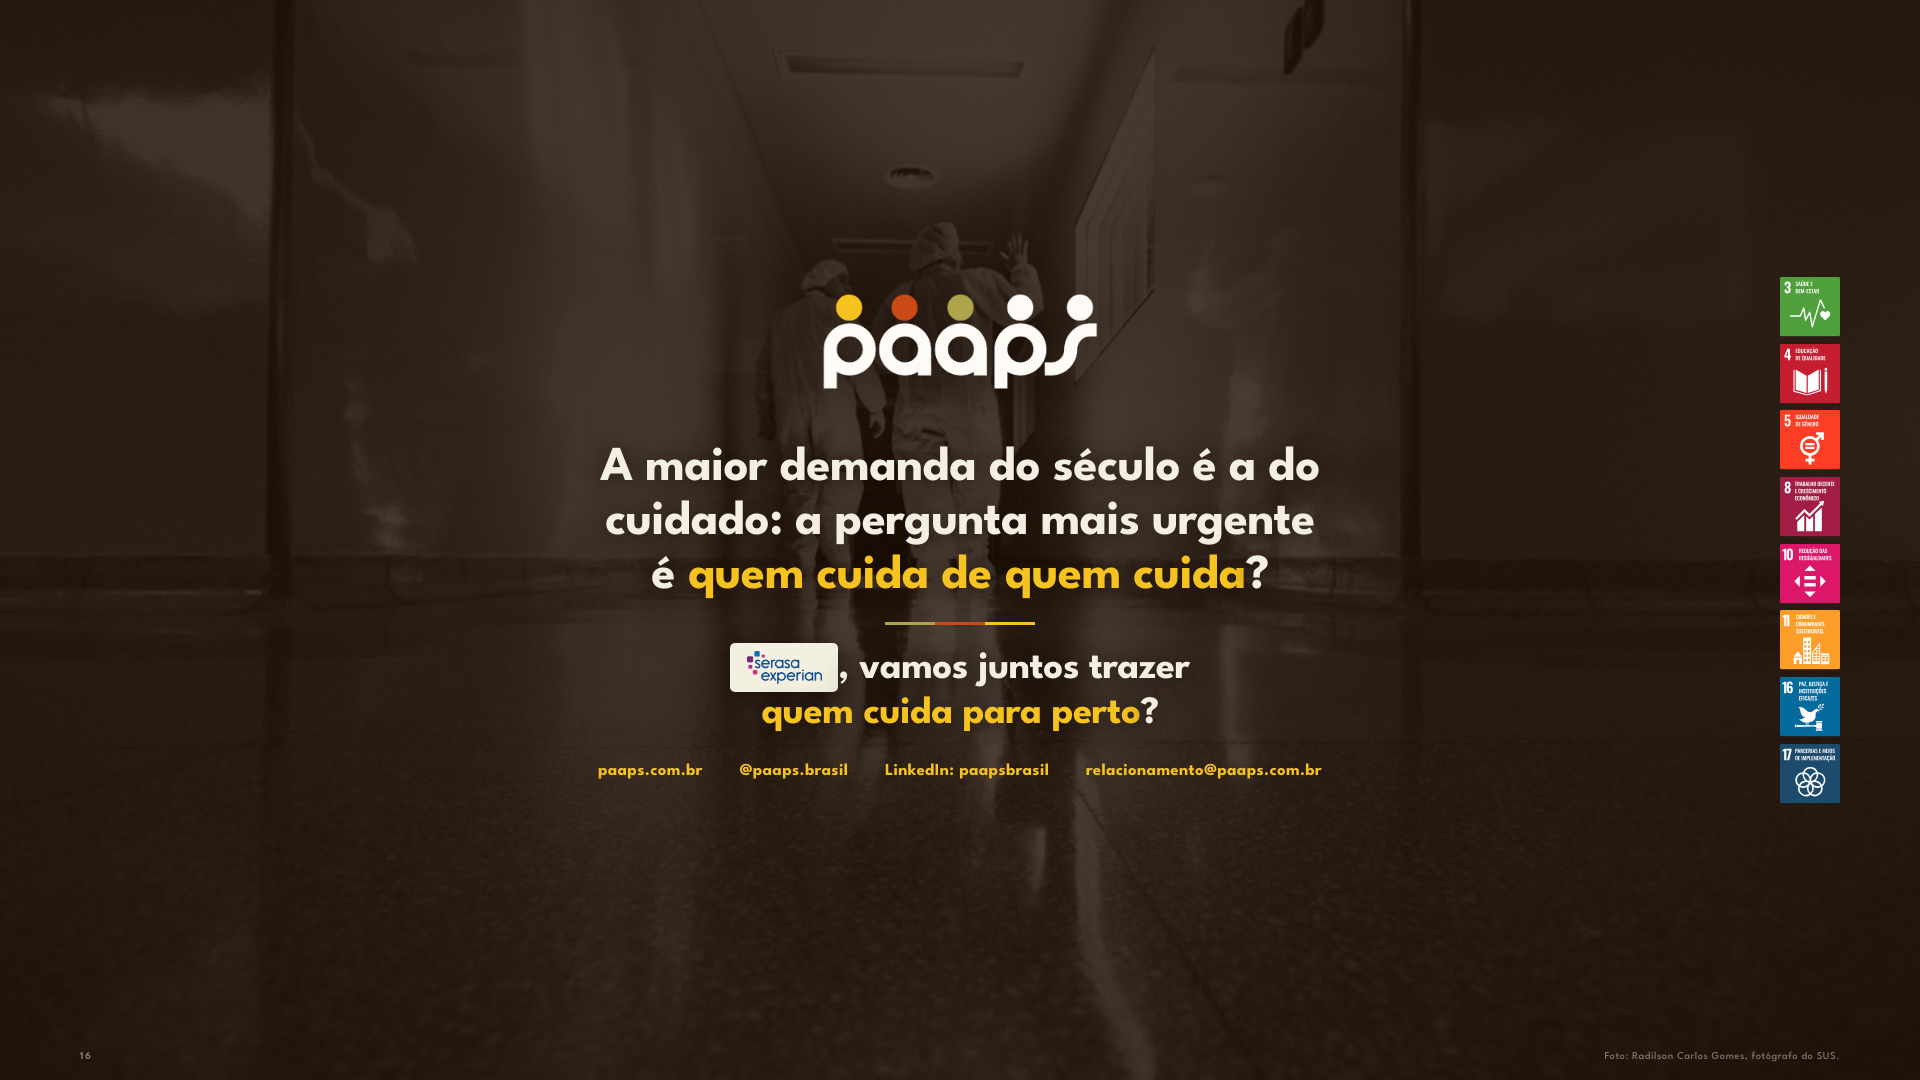
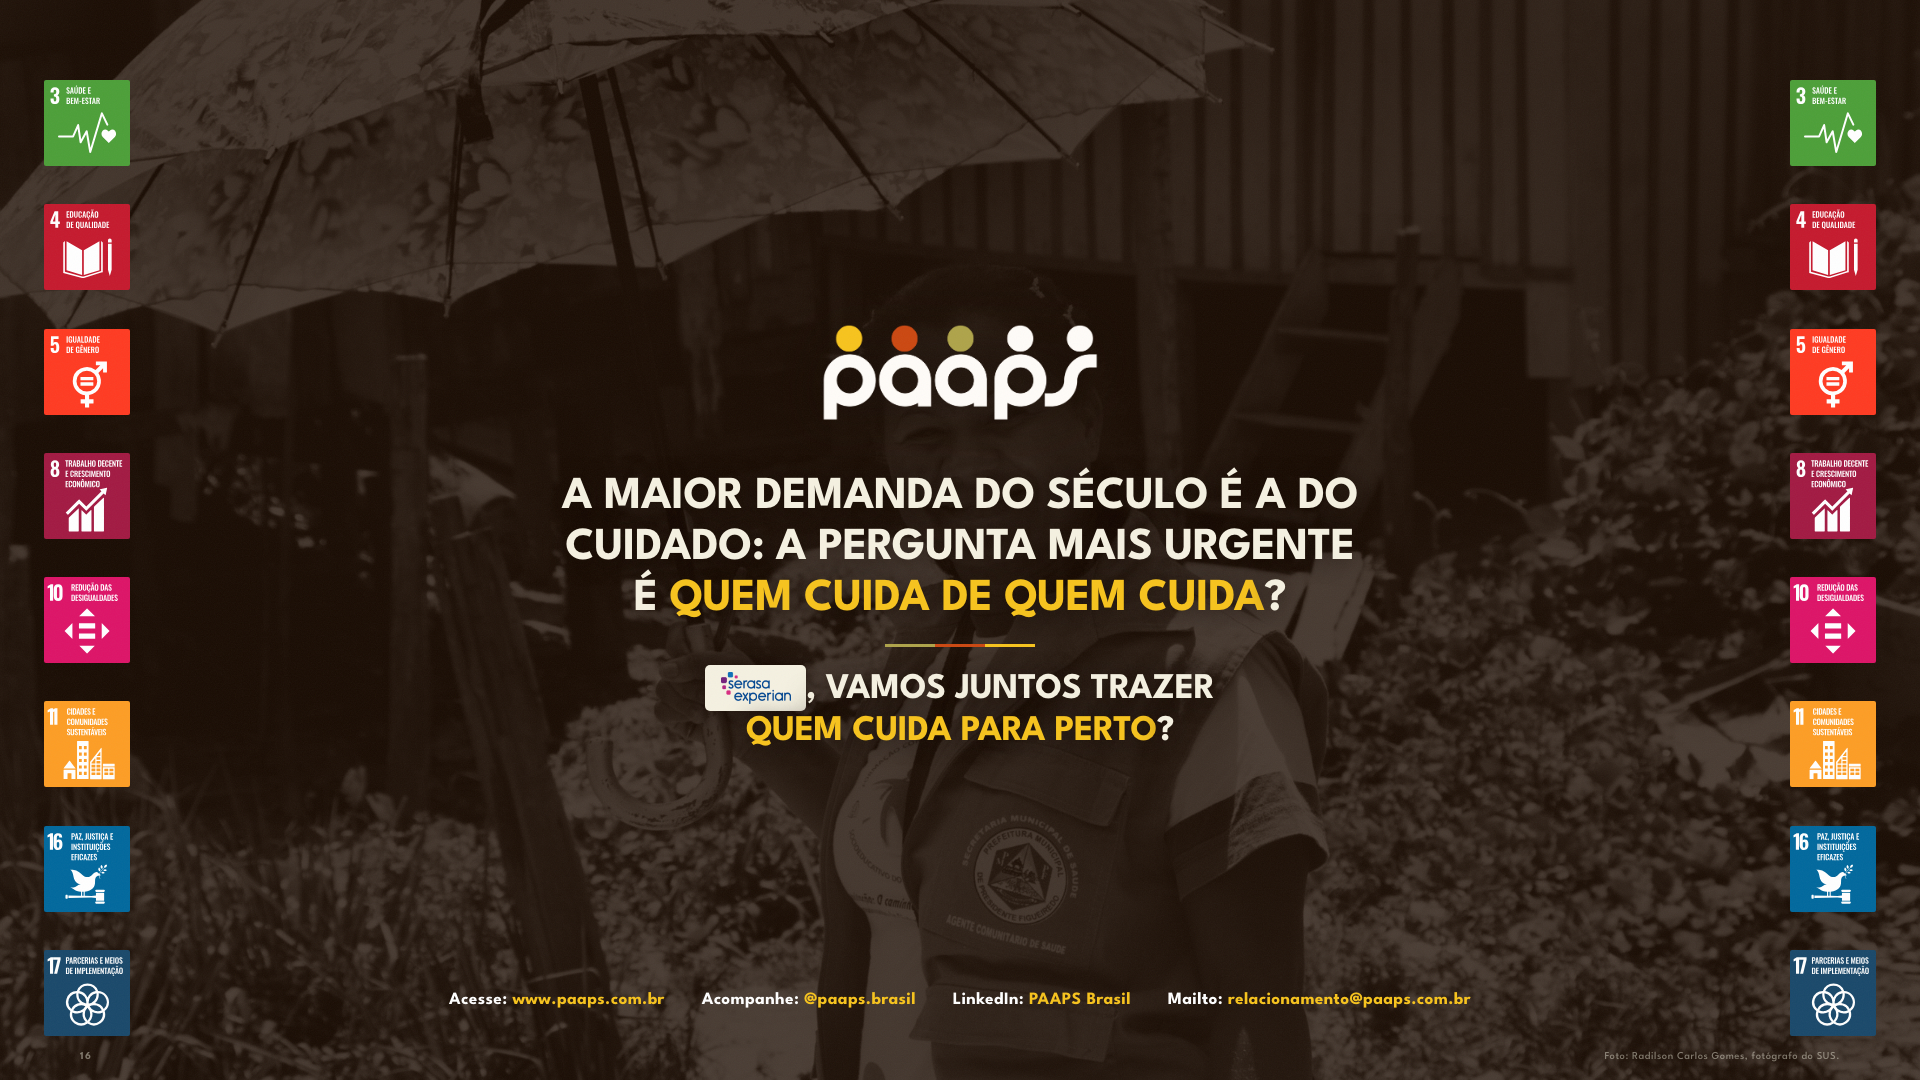
auto: codigo, sessoes - 2026-08-22 13:26

diff --git a/codigo/site/pitch-serasa/pitch.css b/codigo/site/pitch-serasa/pitch.css
@@ -260,7 +260,10 @@ h1,h2,h3{font-family:var(--titulo);font-weight:700;line-height:1.03;letter-spaci
 .fonte{
   position:absolute;left:var(--pad);bottom:34px;z-index:5;
   font-family:var(--corpo);font-size:clamp(.68rem,.8vw,.8rem);line-height:1.4;
-  color:var(--creme-45);max-width:52ch;
+  color:var(--creme-45);
+  /* A fonte de pesquisa usa a largura do slide, em vez de se espremer numa
+     coluna estreita e virar sete linhas empilhadas. Calibrado em 22/08. */
+  max-width:none;width:min(72%,1240px);
 }
 .destaque{color:var(--amarelo)}
 .sub-am{text-decoration:underline;text-decoration-color:var(--amarelo);
@@ -1118,17 +1121,17 @@ h1,h2,h3{font-family:var(--titulo);font-weight:700;line-height:1.03;letter-spaci
 /* Slide 07: são três origens a citar (contrato social, ata do MGI e informe do
    MDS), e a 52ch padrão empilhava isso em oito linhas, por cima do parágrafo de
    fecho. Alarga a faixa para caber em três, sem invadir o crédito da foto. */
-#s7 .fonte{max-width:none;width:min(70%,880px)}
+
 /* Slide 10: a linha de fonte carrega o pregão do Ministério da Gestão, a
    seletividade do investimento e três citações, e a 52ch padrão picotava isso
    em oito linhas. Largura cheia deixa a leitura corrida, como nos parágrafos. */
-#s10 .fonte{max-width:none;width:min(74%,940px)}
+
 /* Slide 13: o título promete "com as premissas na mesa", então a linha de fonte
    é onde as premissas de fato ficam. São sete, e a 52ch padrão as picotaria.
    Sobe 14px do rodapé porque, com quatro linhas, a última cruzava a faixa do
    crédito da foto no canto direito. Subir preserva as quatro linhas; estreitar
    criaria uma quinta e encostaria no número do slide. */
-#s13 .fonte{max-width:none;width:min(78%,1000px);bottom:48px}
+#s13 .fonte{bottom:48px}
 /* Ao virar barra dupla, o gráfico ganhou altura real (o ano 5 passou de 62px
    para 144px) e empurrou o parágrafo de fecho por cima da linha de fonte.
    Recupero a altura apertando as margens do bloco do gráfico, e não a altura
@@ -1389,13 +1392,16 @@ html{font-size:clamp(10px,calc(min(100vw,100vh * 16 / 9) / 80),16px)}
 /* --- SLIDE 16, O FECHO ---------------------------------------------------
    Deixou de ser slide de pedido escrito e virou slide de fecho: a marca no
    centro, a pergunta que sustenta a tese inteira, e o convite direto a Serasa.
-   Os oito ODS sairam da fila horizontal, onde passavam por cima da linha de
-   contato, e viraram uma coluna quieta na borda direita. */
+   Os ODS sairam da fila horizontal, onde passavam por cima da linha de contato,
+   e viraram duas colunas que emolduram o slide de cima a baixo. Sao os mesmos
+   oito, repetidos nos dois lados: quem le nao conta, le a moldura. */
 .ods-lado{
-  position:absolute;right:var(--pad);top:50%;translate:0 -50%;z-index:5;
-  display:flex;flex-direction:column;gap:clamp(5px,.62vh,9px);
-  width:clamp(40px,4.2vw,60px);opacity:.92;
+  position:absolute;top:var(--pad);bottom:calc(var(--pad) * .55);z-index:5;
+  display:flex;flex-direction:column;justify-content:space-between;
+  width:clamp(52px,5.6vw,86px);opacity:.94;
 }
+.ods-lado--esq{left:calc(var(--pad) * .55)}
+.ods-lado--dir{right:calc(var(--pad) * .55)}
 .ods-lado img{width:100%;display:block;border-radius:2px}
 /* O bloco central se centraliza no que sobra depois da coluna de ODS, para
    nao ficar optically empurrado para a esquerda. */
@@ -1405,13 +1411,13 @@ html{font-size:clamp(10px,calc(min(100vw,100vh * 16 / 9) / 80),16px)}
   filter:drop-shadow(0 4px 26px rgba(20,9,2,.85));
 }
 .fecho__frase{
-  margin-top:.7em;max-width:32ch;text-transform:none;
-  font-size:clamp(1.5rem,3.05vw,3.05rem);line-height:1.1;
+  margin-top:.72em;max-width:38ch;
+  font-size:clamp(1.42rem,2.86vw,2.86rem);line-height:1.12;
 }
 .tricolor--centro{margin:1.15em auto}
 .fecho__cta{
-  max-width:26ch;text-transform:none;
-  font-size:clamp(1.2rem,2.42vw,2.42rem);line-height:1.14;
+  max-width:30ch;
+  font-size:clamp(1.12rem,2.26vw,2.26rem);line-height:1.18;
 }
 /* O logotipo da Serasa e azul escuro sobre fundo transparente, entao sobre o
    veu do slide ele sumiria. Vai numa lasca clara, que e como se aplica marca de
@@ -1422,12 +1428,28 @@ html{font-size:clamp(10px,calc(min(100vw,100vh * 16 / 9) / 80),16px)}
   box-shadow:0 3px 18px rgba(20,9,2,.6);
 }
 .chip-serasa img{height:.86em;width:auto;display:block}
+.fecho__contato b{font-weight:700;color:var(--branco)}
 .fecho__contato{
-  margin-top:1.3em;display:flex;justify-content:center;
+  position:absolute;left:var(--pad);right:var(--pad);bottom:calc(var(--pad) * .82);
+  display:flex;justify-content:center;
   gap:clamp(1.1rem,2.3vw,2.3rem);flex-wrap:wrap;
   font-family:var(--titulo);font-weight:700;color:var(--amarelo);
-  font-size:clamp(.82rem,1.05vw,1.05rem);letter-spacing:.02em;
+  font-size:clamp(.84rem,1.08vw,1.08rem);letter-spacing:.02em;
 }
 @media(max-width:820px){
-  .ods-lado{position:static;translate:none;flex-direction:row;width:100%;margin-top:1.4em}
+  .ods-lado{position:static;flex-direction:row;width:100%;margin-top:1.4em;gap:5px}
+  .ods-lado--dir{display:none}
 }
+
+/* --- FONTES DE PESQUISA: LARGURA CHEIA -----------------------------------
+   Calibrado em 22/08. A fonte se espremia numa coluna estreita e virava cinco,
+   seis, sete linhas empilhadas no pe do slide. Cada quebra e uma pausa que o
+   olho paga, e citacao de fonte nao merece esse peso. A regra base ja abriu
+   para 1240px; estes dois slides tem geometria propria e precisam do ajuste
+   um a um. */
+/* Slide 02: a faixa comeca depois do numero do slide, senao a primeira linha
+   passa por cima dele. */
+#s2 .fonte{left:calc(var(--pad) + 32px);right:auto;transform:none;
+  width:min(62%,1180px);text-align:left}
+/* Slide 03: continua ancorada a direita, so que agora com largura de leitura. */
+#s3 .fonte{left:auto;right:var(--pad);width:min(66%,1160px);text-align:right}

diff --git a/codigo/site/pitch-serasa/index-v4.html b/codigo/site/pitch-serasa/index-v4.html
@@ -518,15 +518,16 @@
 
 <!-- 16 FECHO -->
 <section class="slide veu-denso" id="s16">
-  <div class="slide__foto"><img src="../home/img/radilson/corredor-epi.jpg" alt="Dois profissionais de saude de costas, caminhando por um corredor de hospital"></div>
-  <div class="ods-lado rev rev--3"><img src="../home/img/ods/SDG-3.svg" alt="ODS 3"><img src="../home/img/ods/SDG-4.svg" alt="ODS 4"><img src="../home/img/ods/SDG-5.svg" alt="ODS 5"><img src="../home/img/ods/SDG-8.svg" alt="ODS 8"><img src="../home/img/ods/SDG-10.svg" alt="ODS 10"><img src="../home/img/ods/SDG-11.svg" alt="ODS 11"><img src="../home/img/ods/SDG-16.svg" alt="ODS 16"><img src="../home/img/ods/SDG-17.svg" alt="ODS 17"></div>
+  <div class="slide__foto"><img src="img/acs-guarda-chuva.jpg" alt="Agente comunitaria de saude com guarda-chuva, em visita domiciliar"></div>
+  <div class="ods-lado ods-lado--esq rev rev--3"><img src="../home/img/ods/SDG-3.svg" alt="ODS 3"><img src="../home/img/ods/SDG-4.svg" alt="ODS 4"><img src="../home/img/ods/SDG-5.svg" alt="ODS 5"><img src="../home/img/ods/SDG-8.svg" alt="ODS 8"><img src="../home/img/ods/SDG-10.svg" alt="ODS 10"><img src="../home/img/ods/SDG-11.svg" alt="ODS 11"><img src="../home/img/ods/SDG-16.svg" alt="ODS 16"><img src="../home/img/ods/SDG-17.svg" alt="ODS 17"></div>
+  <div class="ods-lado ods-lado--dir rev rev--3"><img src="../home/img/ods/SDG-3.svg" alt="ODS 3"><img src="../home/img/ods/SDG-4.svg" alt="ODS 4"><img src="../home/img/ods/SDG-5.svg" alt="ODS 5"><img src="../home/img/ods/SDG-8.svg" alt="ODS 8"><img src="../home/img/ods/SDG-10.svg" alt="ODS 10"><img src="../home/img/ods/SDG-11.svg" alt="ODS 11"><img src="../home/img/ods/SDG-16.svg" alt="ODS 16"><img src="../home/img/ods/SDG-17.svg" alt="ODS 17"></div>
   <div class="slide__c c--centro fecho">
     <img class="fecho__marca rev" src="../home/img/logo-claro.png" alt="PAAPS Brasil">
     <h2 class="fecho__frase rev rev--1">A maior demanda do século é a do cuidado: a pergunta mais urgente é <span class="destaque">quem cuida de quem cuida</span>?</h2>
     <div class="tricolor tricolor--centro rev rev--2"><i></i><i></i><i></i></div>
     <h2 class="fecho__cta rev rev--2"><span class="chip-serasa"><img src="img/logo-serasa-experian-mini.webp" alt="Serasa Experian"></span>, vamos juntos trazer <span class="destaque">quem cuida para perto</span>?</h2>
     <div class="fecho__contato rev rev--3">
-      <span>paaps.com.br</span><span>@paaps.brasil</span><span>LinkedIn: paapsbrasil</span><span>relacionamento@paaps.com.br</span>
+      <span><b>Acesse:</b> www.paaps.com.br</span><span><b>Acompanhe:</b> @paaps.brasil</span><span><b>LinkedIn:</b> PAAPS Brasil</span><span><b>Mailto:</b> relacionamento@paaps.com.br</span>
     </div>
   </div>
   <span class="slide__n">16</span>

diff --git a/sessoes/sessao-2026-08-22.md b/sessoes/sessao-2026-08-22.md
@@ -13,3 +13,12 @@
 ?? codigo/site/pitch-serasa/slide-16-fecho.png
 ```
 
+
+## 13:26
+```
+ M codigo/site/pitch-serasa/index-v4.html
+ M codigo/site/pitch-serasa/pitch.css
+ M codigo/site/pitch-serasa/slide-16-fecho.png
+?? codigo/site/pitch-serasa/img/acs-guarda-chuva.jpg
+```
+
